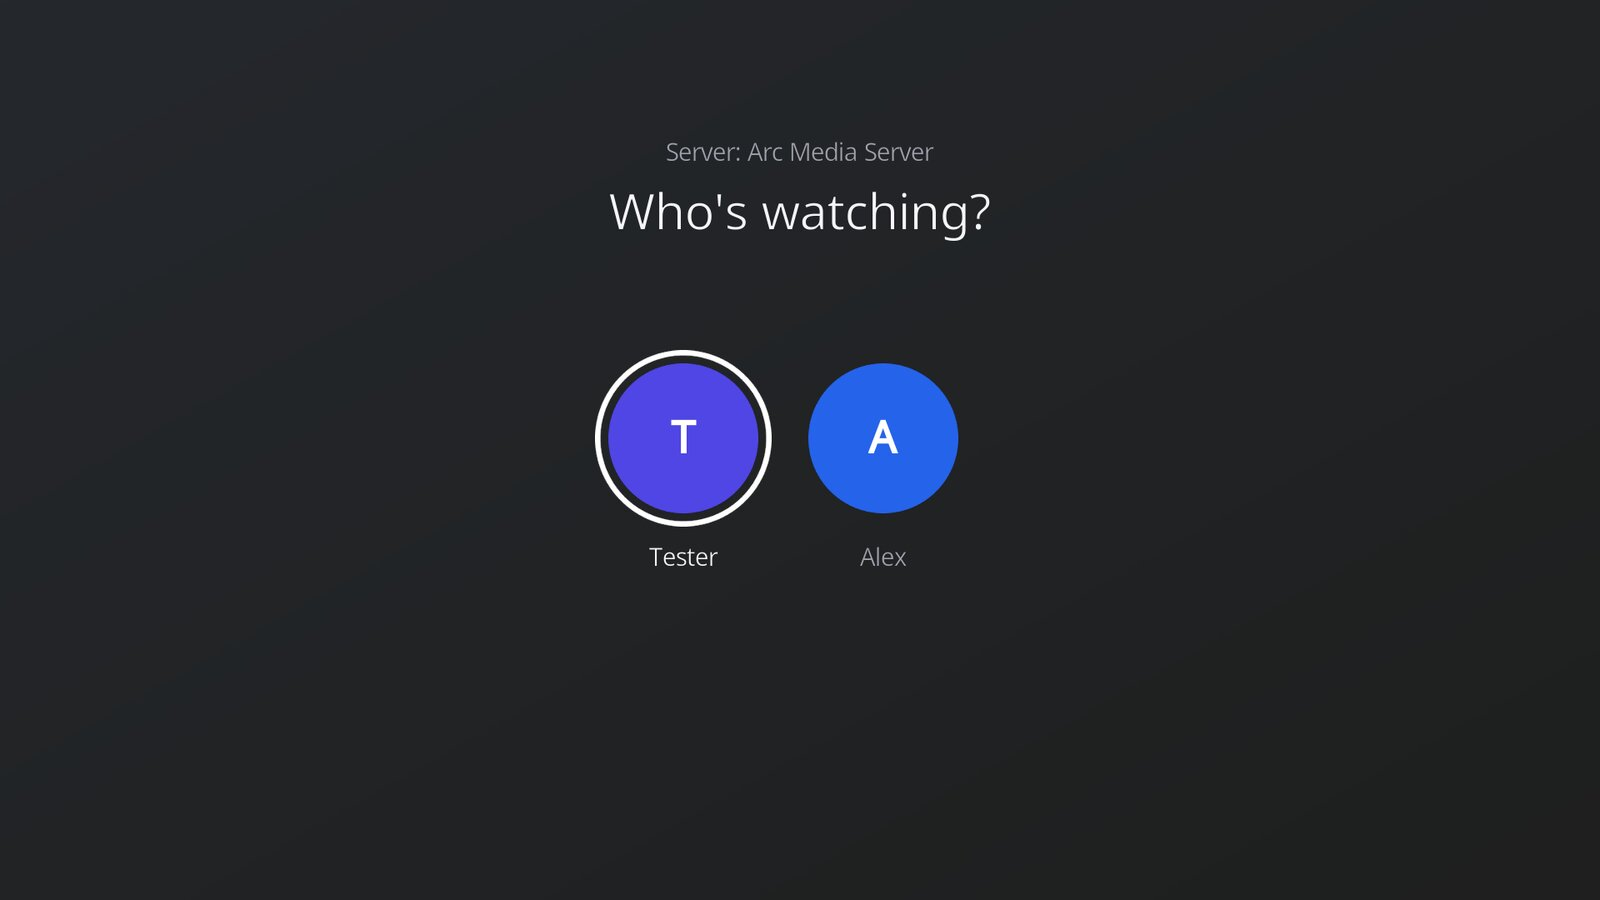
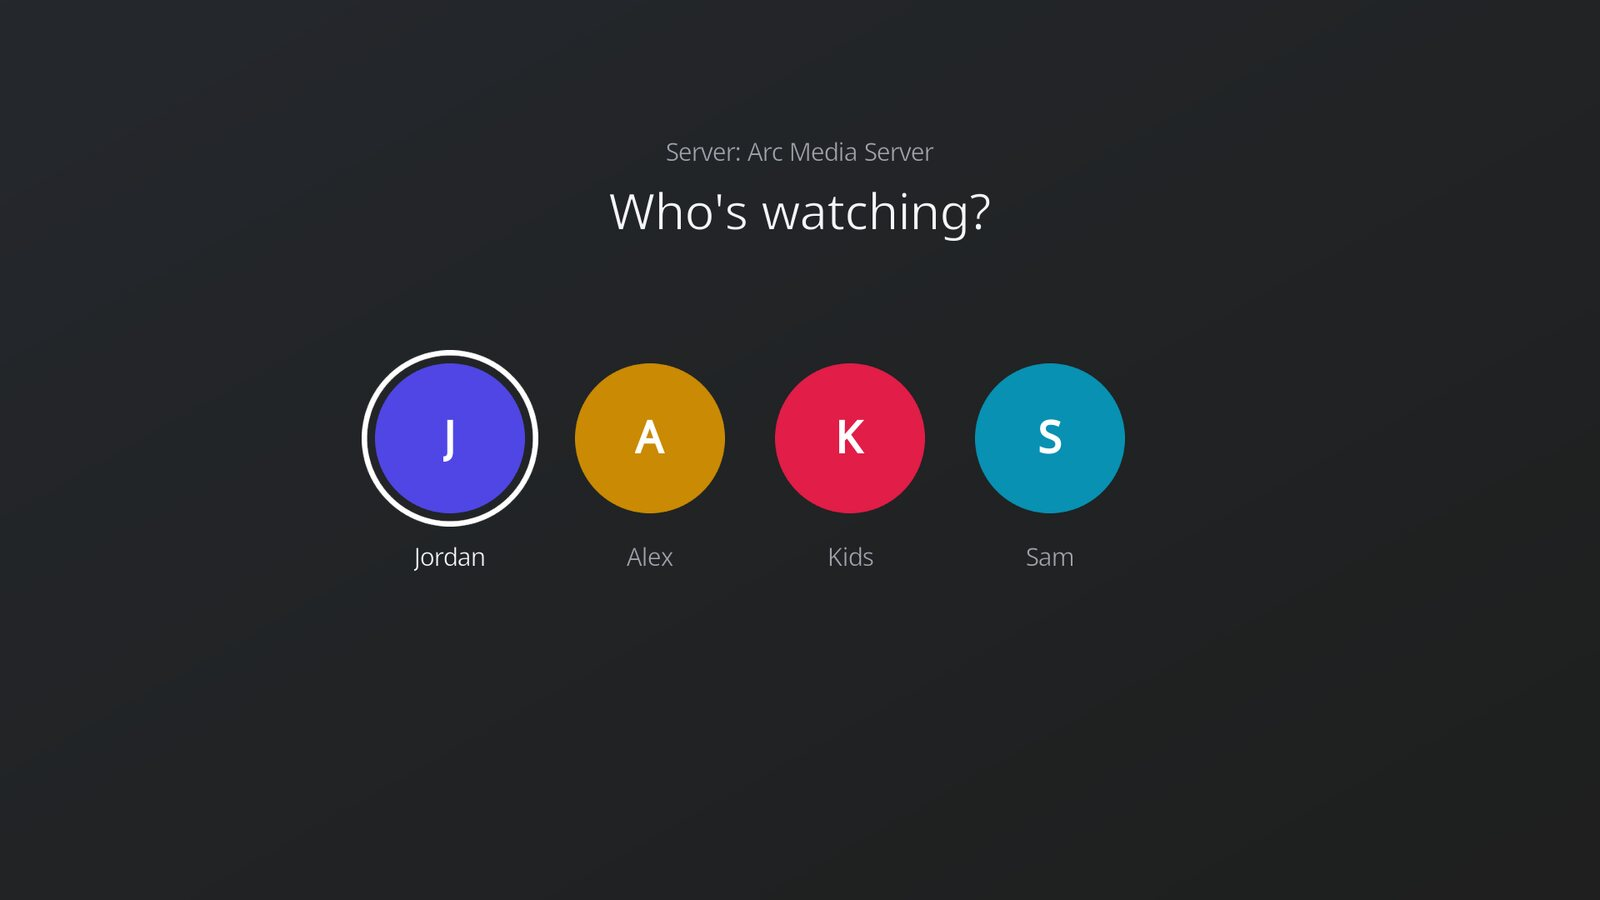
Retake the README screenshots from Arc's shared library
The nine README pictures now come from Arc's shared screenshot library
(arc-media-server#489): well-known titles matched on TMDB, the same as
the server's and the other apps' pictures. Dune: Part Two and Breaking
Bad are the film and show pages. They are real Kodi under Xvfb against
the library's scratch server.

tools/readme_shots.py retakes them. It signs in through Arc's own
keyboard with remote keys, walks the pages and writes
docs/screenshots/*.jpg. It only accepts the scratch server on this
machine.

The README's alt text names each picture, and the TMDB credit sits
under them. DEVELOPING.md has the steps, and there is a change note.

Changed region(s): [[0.2188, 0.3733, 0.7188, 0.6533]]

diff --git a/tools/readme_shots.py b/tools/readme_shots.py
@@ -1,0 +1,204 @@
+#!/usr/bin/env python3
+"""Retakes the README screenshots (docs/screenshots/*.jpg) in real Kodi against Arc's shared
+screenshot library (arc-media-server docs/SCREENSHOTS.md). Dev only.
+
+Start the library's scratch Arc in arc-media-server
+(`cd web && node tools/screenshots.mjs --serve --state <file>`), then Kodi on a virtual display
+with a fresh profile (docs/DEVELOPING.md, "Checking it in Kodi"), then:
+
+    python3 tools/readme_shots.py --state <file>
+
+It drives Kodi only with remote keys (tools/kodi_rpc.py), signs in with the library's household
+password (a throwaway one for a throwaway server; it is typed into Arc's keyboard, never stored
+or printed) and writes 1600-wide JPEGs. Never point it at a real server."""
+import argparse
+import json
+import os
+import subprocess
+import sys
+import time
+
+ROOT = os.path.dirname(os.path.dirname(os.path.abspath(__file__)))
+sys.path[:0] = [os.path.join(ROOT, "tools"), os.path.join(ROOT, "resources", "lib")]
+from arc import search  # noqa: E402
+from arc.keyboard import PAGES  # noqa: E402  (the address and password keyboard's pages)
+from kodi_rpc import DISPLAY, rpc  # noqa: E402
+
+OUT = os.path.join(ROOT, "docs", "screenshots")
+# Search's own keyboard, six keys across.
+SEARCH = {"search": ["".join(search.KEYS[i:i + search.COLUMNS])
+                     for i in range(0, len(search.KEYS), search.COLUMNS)]}
+
+
+def act(*actions, wait=0.6):
+    for a in actions:
+        rpc("Input.ExecuteAction", {"action": a})
+        time.sleep(wait)
+
+
+def focused():
+    r = rpc("GUI.GetProperties", {"properties": ["currentcontrol"]})
+    return r.get("result", {}).get("currentcontrol", {}).get("label", "")
+
+
+def settle(seconds=3.0):  # time for Arc's answers and the artwork
+    time.sleep(seconds)
+
+
+def shot(name):
+    os.makedirs(OUT, exist_ok=True)
+    path = os.path.join(OUT, name + ".jpg")
+    subprocess.run(["import", "-display", DISPLAY, "-window", "root", "-resize", "1600x900",
+                    "-quality", "84", path], check=True)
+    print(path)
+
+
+class Keyboard:
+    """Types into Arc's on-screen keyboard by moving focus key by key, as a remote would."""
+
+    def __init__(self, page, pages=PAGES):
+        self.page, self.row, self.col = page, 0, 0   # it opens on the first key
+        self.pages = pages
+
+    def _move(self, row, col):
+        while self.row < row:
+            act("down", wait=0.25); self.row += 1
+        while self.row > row:
+            act("up", wait=0.25); self.row -= 1
+        while self.col < col:
+            act("right", wait=0.25); self.col += 1
+        while self.col > col:
+            act("left", wait=0.25); self.col -= 1
+
+    def _bottom(self, label):
+        """Presses a key in the row under the grid (Shift, 123/ABC, Done) and comes back up."""
+        self._move(len(self.pages[self.page]) - 1, 0)
+        act("down", wait=0.4)
+        act(*["left"] * 6, wait=0.2)   # from Shift, at the row's left end
+        for _ in range(8):
+            if focused() == label:
+                break
+            act("right", wait=0.3)
+        else:
+            raise SystemExit("keyboard: no %r key" % label)
+        act("select", wait=0.5)
+        if label != "Done":
+            act("up", wait=0.4)
+            last = self.pages[self.page][-1]
+            self.row, self.col = len(self.pages[self.page]) - 1, max(0, last.find(focused()))
+
+    def _page_for(self, ch):
+        for page in [self.page] + list(self.pages):
+            if any(ch in r for r in self.pages[page]):
+                return page
+        raise SystemExit("keyboard: can't type %r" % ch)
+
+    def _go_to_page(self, page):
+        while self.page != page:
+            if {self.page, page} == {"lower", "upper"}:
+                self._bottom("Shift"); self.page = page
+            elif self.page == "symbols":
+                self._bottom("ABC"); self.page = "lower"
+            else:
+                self._bottom("123"); self.page = "symbols"
+
+    def type(self, text):
+        for ch in text:
+            self._go_to_page(self._page_for(ch))
+            for r, row in enumerate(self.pages[self.page]):
+                if ch in row:
+                    self._move(r, row.index(ch))
+            act("select", wait=0.3)
+
+    def done(self):
+        self._bottom("Done")
+
+    def clear(self):
+        self._bottom("Clear")
+
+
+def until(label, key, tries=10, match=str.__eq__):
+    """Presses key until the focused control's label matches."""
+    for _ in range(tries):
+        if match(focused(), label):
+            return
+        act(key)
+    raise SystemExit("couldn't reach %r (on %r)" % (label, focused()))
+
+
+def search_keys():
+    """Arc's search keyboard, wherever its focus is (Left until it's on a key)."""
+    until("", "left", match=lambda f, _: len(f) == 1)
+    kb, label = Keyboard("search", SEARCH), focused()
+    for r, row in enumerate(SEARCH["search"]):
+        if label in row:
+            kb.row, kb.col = r, row.index(label)
+    return kb
+
+
+def walk(state):
+    # Connect: the address field opens Arc's keyboard; Done connects.
+    act("select"); settle(1.5)
+    kb = Keyboard("lower")
+    kb.type(state["address"].replace("http://", ""))
+    kb.done(); settle(5)
+    shot("sign-in")                                  # the code to approve
+    until("Sign In with Password", "down")
+    act("select"); settle(1.5)
+    kb = Keyboard("lower")
+    kb.type(state["password"])                       # the library's throwaway password
+    kb.done(); settle(6)
+    shot("profiles")                                 # Who's watching?
+    until(state.get("admin", "Jordan"), "right")
+    act("select"); settle(10)
+    shot("home")
+
+    act("left"); until("Search", "up")
+    act("select"); settle(2)
+    search_keys().type("dune"); settle(5)
+    shot("search")
+    until("Dune: Part Two", "right")
+    act("select"); settle(8)
+    shot("film")
+    act("contextmenu"); settle(2)
+    until("Watch Together", "down", match=str.startswith)
+    act("select"); settle(4)
+    act("select"); settle(2)                         # tick the first person
+    shot("watch-together")
+    act("back", "back", wait=2)
+
+    kb = search_keys(); kb.clear(); kb.type("breaking"); settle(5)
+    until("Breaking Bad", "right")
+    act("select"); settle(8)
+    act("down", "down", wait=2)                      # onto the next episode, in the season row
+    shot("show")
+    for _ in range(3):                               # back to Home's sidebar
+        act("back", wait=3)
+        if focused() == "Search":
+            break
+    until("Movies", "down")
+    act("select"); settle(8)
+    until("Recommended", "up")
+    act("right", "select"); settle(6)                # Browse, with Play All, Shuffle, Sort, Filter
+    shot("library")
+    act("back"); settle(3)
+
+    until("Settings", "down")
+    act("select"); settle(5)
+    shot("settings")
+
+
+def main():
+    p = argparse.ArgumentParser()
+    p.add_argument("--state", required=True, help="the JSON written by screenshots.mjs --state")
+    args = p.parse_args()
+    with open(args.state) as f:
+        state = json.load(f)
+    if not state.get("address", "").startswith("http://127.0.0.1:"):
+        raise SystemExit("only the scratch screenshot server on this machine")
+    rpc("Addons.ExecuteAddon", {"addonid": "script.arc"}); settle(6)
+    walk(state)
+
+
+if __name__ == "__main__":
+    main()

diff --git a/docs/changes/2026-11-20-shared-screenshot-library.md b/docs/changes/2026-11-20-shared-screenshot-library.md
@@ -1,0 +1,53 @@
+# README screenshots from Arc's shared library
+
+The README's nine pictures are retaken against Arc's shared screenshot library
+(arc-media-server#489, its `docs/SCREENSHOTS.md`; owner, 20 November). The library is made of
+well-known films and shows matched on TMDB, so these pictures show the same titles, artwork,
+descriptions and cast as the server's and the other apps' pictures. The old pictures used the
+server's generated test library.
+
+- **Pages:** the same pages as the web README where the add-on has them:
+  - Home (Continue Watching, with Severance);
+  - the featured film, Dune: Part Two;
+  - the featured show, Breaking Bad;
+  - the Movies library (Browse);
+  - the profile picker (Jordan, Alex, Kids, Sam).
+
+  Also the pages the README already showed: search ("dune"), Watch Together's invite screen
+  (from Dune: Part Two, with the Kids profile greyed because it can't watch the film), Settings
+  and the sign-in code. The file names are unchanged. Each picture is a 1600×900 JPEG of real
+  Kodi at 1920×1080.
+- **Retaking them:** `tools/readme_shots.py` drives Kodi with remote keys over JSON-RPC:
+  - it types the address and the library's throwaway household password into Arc's own
+    keyboard, moving focus key by key as a remote would, and reads Kodi's focused label to find
+    its way;
+  - it walks the pages and writes `docs/screenshots/*.jpg`;
+  - it refuses any address that isn't the scratch server on this machine.
+
+  `docs/DEVELOPING.md` has the steps.
+- **README:**
+  - the alt text names what each picture shows;
+  - the TMDB credit sits under the pictures, worded as the server README's.
+- **Removed:** nothing. The add-on had no fixture data or tooling made only for the README
+  pictures, because the old pictures used the server's test library.
+
+## Checks
+
+- `python3 -m pytest -q` and `python3 tools/check.py`.
+- The walk: Kodi 20.5 under Xvfb (1920×1080) against the library's scratch Arc
+  (`node tools/screenshots.mjs --serve`, `127.0.0.1:18299`), run twice from a fresh Kodi
+  profile. I looked at every picture.
+
+No real hardware was used. The pictures show layout, not playback.
+
+## Limits
+
+- Breaking Bad's backdrop is bright desert, so its description reads less strongly than on
+  darker artwork. It is still legible at full size, thanks to the text shadow.
+- The walk relies on the pages' current focus order. If a page's layout changes, the script
+  stops with the label it couldn't reach rather than taking a wrong picture.
+
+## Logging
+
+None: the add-on is unchanged. The script prints only the files it writes; it never prints the
+password, a token or a URL.

diff --git a/README.md b/README.md
@@ -18,7 +18,7 @@
 </p>
 
 <p align="center">
-  <img src="docs/screenshots/home.jpg" alt="Arc's Home in Kodi" width="900">
+  <img src="docs/screenshots/home.jpg" alt="Arc's Home in Kodi: Continue Watching, with Severance's artwork filling the screen" width="900">
 </p>
 
 ## What is Arc for Kodi?
@@ -37,18 +37,21 @@ resume points and settings are the same as on every other Arc app.
 
 <table>
   <tr>
-    <td width="50%"><img src="docs/screenshots/film.jpg" alt="A film's page"></td>
-    <td width="50%"><img src="docs/screenshots/show.jpg" alt="A show's page, with its seasons and episodes"></td>
+    <td width="50%"><img src="docs/screenshots/film.jpg" alt="Dune: Part Two's page, with Resume and its cast"></td>
+    <td width="50%"><img src="docs/screenshots/show.jpg" alt="Breaking Bad's page, with its first season's episodes"></td>
   </tr>
   <tr>
-    <td width="50%"><img src="docs/screenshots/library.jpg" alt="Browsing a library, with Play All, Shuffle, Sort and Filter"></td>
-    <td width="50%"><img src="docs/screenshots/search.jpg" alt="Search, with Arc's on-screen keyboard"></td>
+    <td width="50%"><img src="docs/screenshots/library.jpg" alt="Browsing Movies, with Play All, Shuffle, Sort and Filter"></td>
+    <td width="50%"><img src="docs/screenshots/search.jpg" alt="Searching for Dune with Arc's on-screen keyboard"></td>
   </tr>
   <tr>
-    <td width="50%"><img src="docs/screenshots/watch-together.jpg" alt="Inviting someone to Watch Together"></td>
-    <td width="50%"><img src="docs/screenshots/settings.jpg" alt="Settings, saved to your profile"></td>
+    <td width="50%"><img src="docs/screenshots/watch-together.jpg" alt="Inviting someone to watch Dune: Part Two together"></td>
+    <td width="50%"><img src="docs/screenshots/settings.jpg" alt="Settings, saved to Jordan's profile"></td>
   </tr>
 </table>
+
+<sub>Artwork and details from <a href="https://www.themoviedb.org">TMDB</a>. Films and shows belong
+to their owners; Arc doesn't include any media.</sub>
 
 ## What it does
 
@@ -83,7 +86,7 @@ are Arc's own, not your skin's.
 <table>
   <tr>
     <td width="50%"><img src="docs/screenshots/sign-in.jpg" alt="Signing in with a code"></td>
-    <td width="50%"><img src="docs/screenshots/profiles.jpg" alt="Who's watching?"></td>
+    <td width="50%"><img src="docs/screenshots/profiles.jpg" alt="Who's watching? Jordan, Alex, Kids and Sam"></td>
   </tr>
 </table>
 

diff --git a/docs/DEVELOPING.md b/docs/DEVELOPING.md
@@ -37,6 +37,11 @@ docs/changes/                   one note per change
   sign-in code with `POST /api/v1/auth/link/approve` from the scratch server's admin session.
   This shows layout, focus, navigation and the API flows, not playback quality: the virtual
   display has no audio device or GPU (Kodi's clock runs on past a clip's end without one).
+- **README screenshots** come from Arc's shared screenshot library (arc-media-server's
+  `docs/SCREENSHOTS.md`): run `node tools/screenshots.mjs --serve --state <file>` in the server's
+  `web/`, start Kodi as above with a fresh profile, then `python3 tools/readme_shots.py --state
+  <file>`. It signs in, walks the pages with remote keys and writes `docs/screenshots/*.jpg`;
+  look at each one before committing.
 - Kodi gotchas found that way: a control with a fixed `<visible>` ignores `setVisible()` (use a
   window property in the condition); focusing a control that shows only once it has items fails
   until Kodi's next frame (`focus_when_visible`); a grouplist rewrites its children's Up/Down, and
